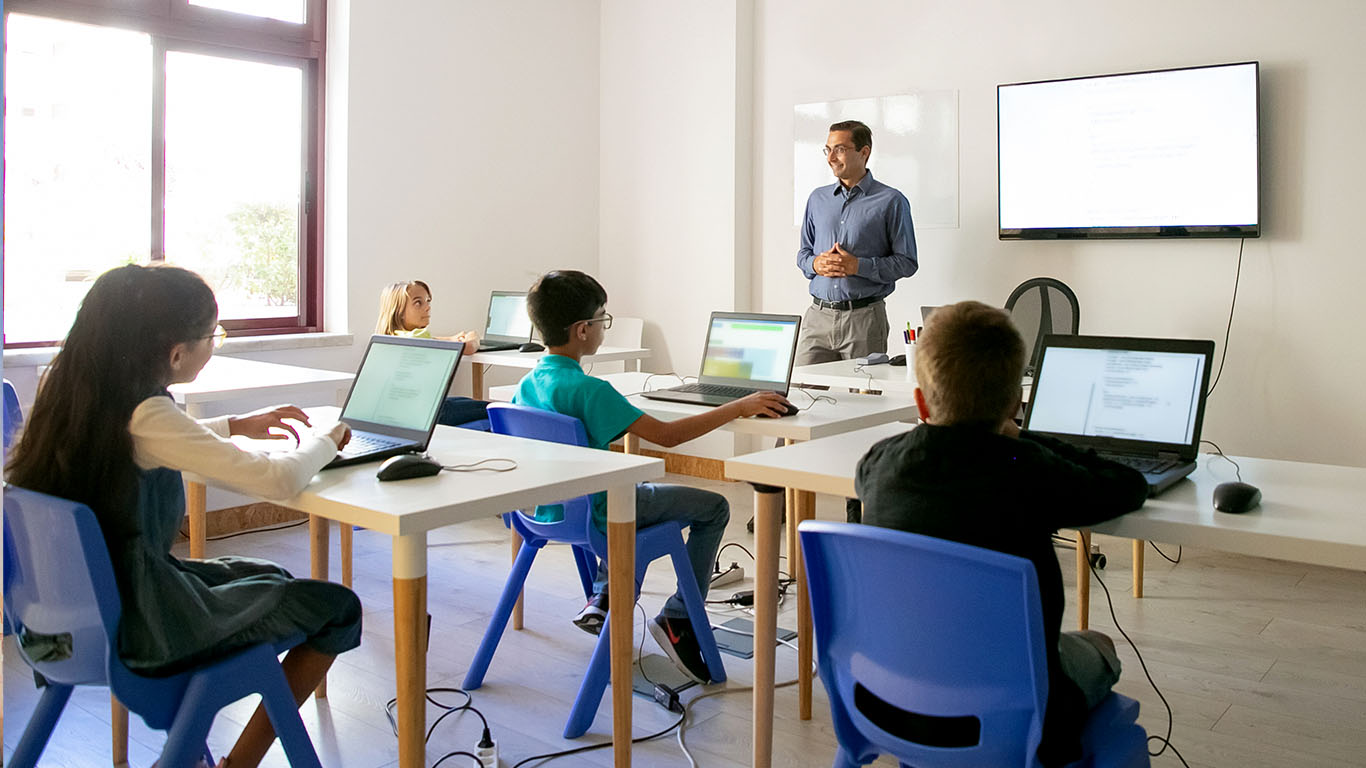
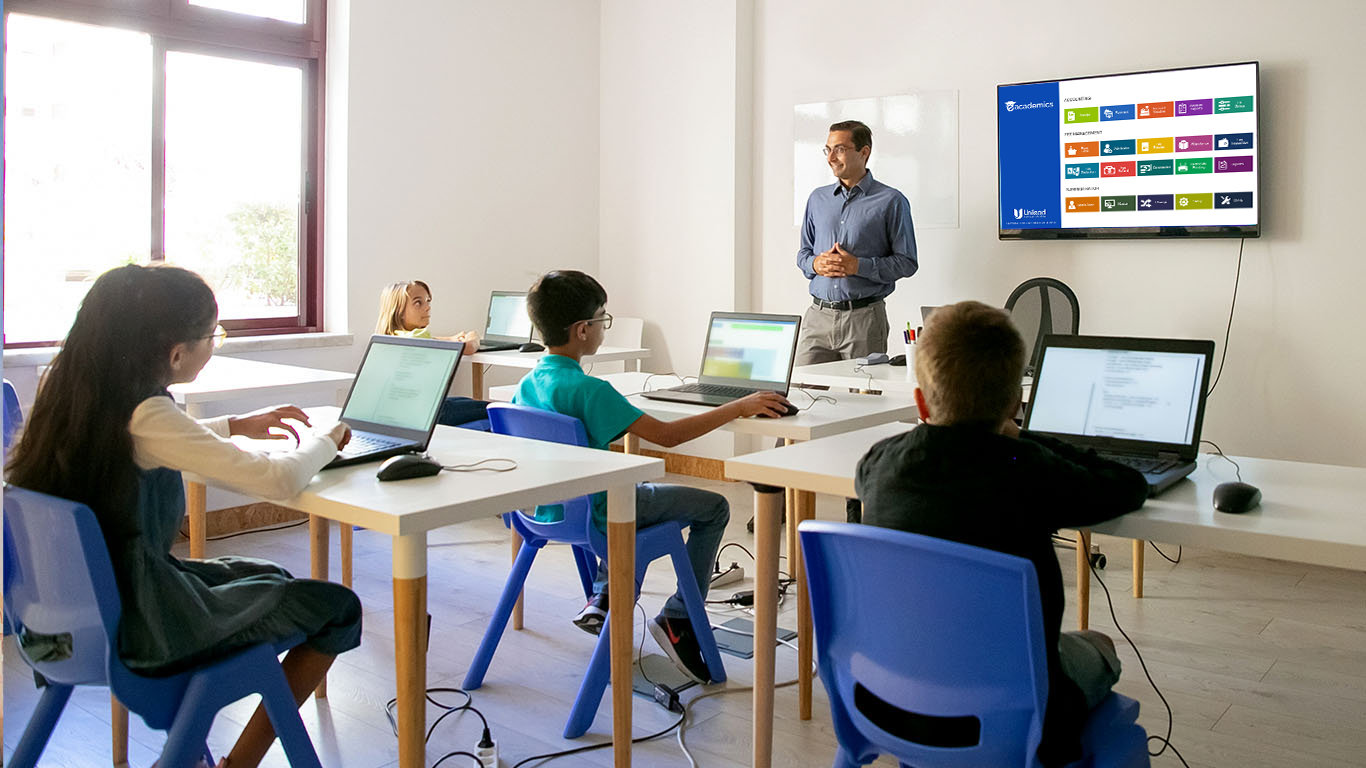
updated

Changed region(s): [[0.7072, 0.0938, 0.9224, 0.3125]]

diff --git a/eAcademics_new/School/index.html b/eAcademics_new/School/index.html
@@ -129,7 +129,7 @@
                 </div>
             </div>
 			<div class="owl-carousel-item position-relative">
-                <img class="img-fluid" src="img/carousel-2.jpg" alt="">
+                <img class="img-fluid" src="img/carousel-3.jpg" alt="">
                 <div class="position-absolute top-0 start-0 w-100 h-100 d-flex align-items-center" style="background: rgba(24, 29, 56, .7);">
                     <div class="container">
                         <div class="row justify-content-start">
@@ -318,23 +318,7 @@
 
                     </div>
                     <h5 class="mb-0">Fee & Accounting Modules</h5>
-                    <div class="testimonial-text bg-light text-center p-1">
-                        <div class="text-center pb-0">
-                            <div class="mb-1">
-                                <small class="fa fa-star text-primary"></small>
-                                <small class="fa fa-star text-primary"></small>
-                                <small class="fa fa-star text-primary"></small>
-                                <small class="fa fa-star text-primary"></small>
-                                <small class="fa fa-star text-primary"></small>
-                                <small>(123)</small>
-                            </div>
-                        </div>
-                        <div class="d-flex border-top">
-                            <small class="flex-fill text-center border-end py-2"><i class="fa fa-user-tie text-primary me-2"></i>John Doe</small>
-                            <small class="flex-fill text-center border-end py-2"><i class="fa fa-clock text-primary me-2"></i>1.49 Hrs</small>
-                            <small class="flex-fill text-center py-2"><i class="fa fa-user text-primary me-2"></i>30 Students</small>
-                        </div>
-                    </div>
+                   
                 </div>
                 <div class="testimonial-item text-center">
                     <div class="embed-responsive embed-responsive-16by9" style="margin-bottom:30px;">
@@ -344,23 +328,7 @@
                           
                     </div>
                     <h5 class="mb-0">Inventory Modules</h5>
-                    <div class="testimonial-text bg-light text-center p-1">
-                        <div class="text-center pb-0">
-                            <div class="mb-1">
-                                <small class="fa fa-star text-primary"></small>
-                                <small class="fa fa-star text-primary"></small>
-                                <small class="fa fa-star text-primary"></small>
-                                <small class="fa fa-star text-primary"></small>
-                                <small class="fa fa-star text-primary"></small>
-                                <small>(123)</small>
-                            </div>
-                        </div>
-                        <div class="d-flex border-top">
-                            <small class="flex-fill text-center border-end py-2"><i class="fa fa-user-tie text-primary me-2"></i>John Doe</small>
-                            <small class="flex-fill text-center border-end py-2"><i class="fa fa-clock text-primary me-2"></i>1.49 Hrs</small>
-                            <small class="flex-fill text-center py-2"><i class="fa fa-user text-primary me-2"></i>30 Students</small>
-                        </div>
-                    </div>
+                 
                 </div>
                 <div class="testimonial-item text-center">
                     <div class="embed-responsive embed-responsive-16by9" style="margin-bottom:30px;">
@@ -369,23 +337,7 @@
                     </div>
                     <h5 class="mb-0">Result Modules</h5>
                 
-                    <div class="testimonial-text bg-light text-center p-1">
-                        <div class="text-center pb-0">
-                            <div class="mb-1">
-                                <small class="fa fa-star text-primary"></small>
-                                <small class="fa fa-star text-primary"></small>
-                                <small class="fa fa-star text-primary"></small>
-                                <small class="fa fa-star text-primary"></small>
-                                <small class="fa fa-star text-primary"></small>
-                                <small>(123)</small>
-                            </div>
-                        </div>
-                        <div class="d-flex border-top">
-                            <small class="flex-fill text-center border-end py-2"><i class="fa fa-user-tie text-primary me-2"></i>John Doe</small>
-                            <small class="flex-fill text-center border-end py-2"><i class="fa fa-clock text-primary me-2"></i>1.49 Hrs</small>
-                            <small class="flex-fill text-center py-2"><i class="fa fa-user text-primary me-2"></i>30 Students</small>
-                        </div>
-                    </div>
+                 
                 </div>
                 <div class="testimonial-item text-center">
                     <div class="embed-responsive embed-responsive-16by9" style="margin-bottom:30px;">
@@ -396,22 +348,7 @@
                     </div>
                     <h5 class="mb-0">Library Modules</h5>
                 
-                    <div class="testimonial-text bg-light text-center p-1">
-                        <div class="text-center pb-0">
-                            <div class="mb-1">
-                                <small class="fa fa-star text-primary"></small>
-                                <small class="fa fa-star text-primary"></small>
-                                <small class="fa fa-star text-primary"></small>
-                                <small class="fa fa-star text-primary"></small>
-                                <small class="fa fa-star text-primary"></small>
-                                <small>(123)</small>
-                            </div>
-                        </div>
-                        <div class="d-flex border-top">
-                            <small class="flex-fill text-center border-end py-2"><i class="fa fa-user-tie text-primary me-2"></i>John Doe</small>
-                            <small class="flex-fill text-center border-end py-2"><i class="fa fa-clock text-primary me-2"></i>1.49 Hrs</small>
-                            <small class="flex-fill text-center py-2"><i class="fa fa-user text-primary me-2"></i>30 Students</small>
-                        </div>
+              
                     </div>
                 </div>
             </div>
@@ -437,8 +374,8 @@
                             <a class="position-relative d-block overflow-hidden" href="">
                                 <img class="img-fluid" src="img/cat-1.jpg" alt="">
                                 <div class="bg-white text-center position-absolute bottom-0 end-0 py-2 px-3" style="margin: 1px;">
-                                    <h5 class="m-0">Web Design</h5>
-                                    <small class="text-primary">49 Courses</small>
+                                    <h5 class="m-0">Admissions</h5>
+                                    <small class="text-primary">explore more..</small>
                                 </div>
                             </a>
                         </div>
@@ -446,8 +383,8 @@
                             <a class="position-relative d-block overflow-hidden" href="">
                                 <img class="img-fluid" src="img/cat-2.jpg" alt="">
                                 <div class="bg-white text-center position-absolute bottom-0 end-0 py-2 px-3" style="margin: 1px;">
-                                    <h5 class="m-0">Graphic Design</h5>
-                                    <small class="text-primary">49 Courses</small>
+                                    <h5 class="m-0">Results</h5>
+                                    <small class="text-primary">explore more..</small>
                                 </div>
                             </a>
                         </div>
@@ -455,8 +392,8 @@
                             <a class="position-relative d-block overflow-hidden" href="">
                                 <img class="img-fluid" src="img/cat-3.jpg" alt="">
                                 <div class="bg-white text-center position-absolute bottom-0 end-0 py-2 px-3" style="margin: 1px;">
-                                    <h5 class="m-0">Video Editing</h5>
-                                    <small class="text-primary">49 Courses</small>
+                                    <h5 class="m-0">Reporting</h5>
+                                    <small class="text-primary">explore more..</small>
                                 </div>
                             </a>
                         </div>
@@ -466,8 +403,8 @@
                     <a class="position-relative d-block h-100 overflow-hidden" href="">
                         <img class="img-fluid position-absolute w-100 h-100" src="img/cat-4.jpg" alt="" style="object-fit: cover;">
                         <div class="bg-white text-center position-absolute bottom-0 end-0 py-2 px-3" style="margin:  1px;">
-                            <h5 class="m-0">Online Marketing</h5>
-                            <small class="text-primary">49 Courses</small>
+                            <h5 class="m-0">Inventory</h5>
+                            <small class="text-primary">explore more..</small>
                         </div>
                     </a>
                 </div>
